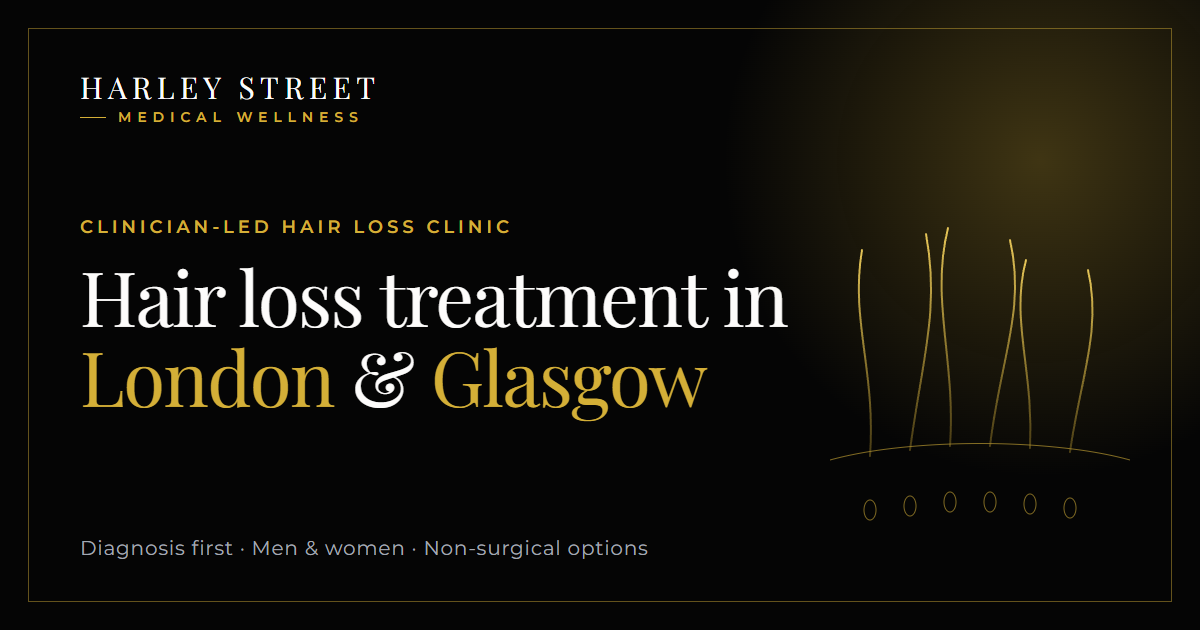
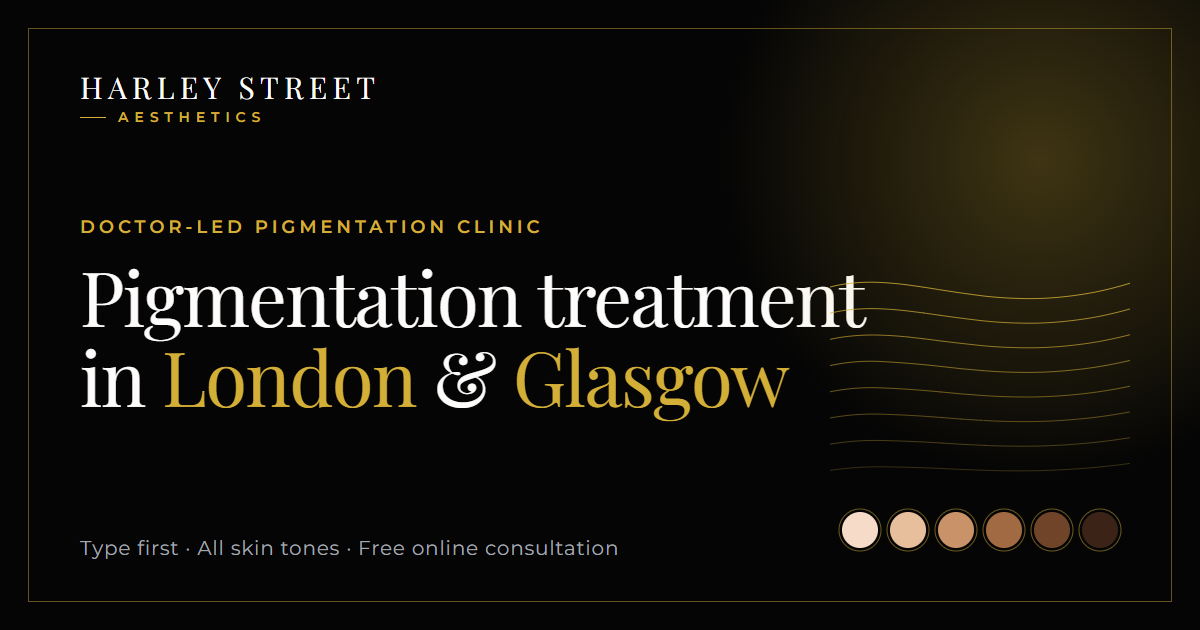
Phase 4-5: QA fixes, screenshots, review checklist and deployment guide

diff --git a/src/components/MobileMenu.tsx b/src/components/MobileMenu.tsx
@@ -1,4 +1,4 @@
-"use client";
+"use client";
 
 import Link from "next/link";
 import { usePathname } from "next/navigation";
@@ -54,7 +54,7 @@ export function MobileMenu() {
       <button
         ref={buttonRef}
         type="button"
-        className="inline-flex h-11 w-11 items-center justify-center rounded-full border border-white/20 min-[1400px]:hidden"
+        className="inline-flex h-11 w-11 items-center justify-center rounded-full border border-white/20 min-[1720px]:hidden"
         aria-expanded={open}
         aria-controls="mobile-menu"
         onClick={() => setOpen((o) => !o)}
@@ -64,7 +64,7 @@ export function MobileMenu() {
       </button>
       {/* Portalled to <body>: the header's backdrop-filter would otherwise trap this fixed panel inside the header box. */}
       {open && createPortal(
-        <div id="mobile-menu" className="fixed inset-x-0 top-[4.5rem] bottom-0 lg:top-[6.75rem] z-50 overflow-y-auto border-t border-white/10 bg-ink min-[1400px]:hidden">
+        <div id="mobile-menu" className="fixed inset-x-0 top-[4.5rem] bottom-0 lg:top-[6.75rem] z-50 overflow-y-auto border-t border-white/10 bg-ink min-[1720px]:hidden">
           <nav aria-label="Mobile" className="container-x py-6">
             <LocationSwitcher className="md:hidden" />
             <ul className="mt-6 divide-y divide-white/10">

diff --git a/src/app/treatments/[slug]/page.tsx b/src/app/treatments/[slug]/page.tsx
@@ -60,7 +60,7 @@ export default async function TreatmentPage({ params }: PageProps<"/treatments/[
       <Section labelledBy="what-title">
         <div className="grid items-center gap-12 lg:grid-cols-12 lg:gap-16">
           <div className="lg:col-span-7">
-            <SectionHeading id="what-title" eyebrow="How it works" title={<>About {t.shortName === "IPL" || t.shortName === "VI Peel" ? t.shortName : t.name.charAt(0).toLowerCase() + t.name.slice(1)}</>} />
+            <SectionHeading id="what-title" eyebrow="How it works" title={t.name} />
             <div className="space-y-5 text-lg leading-relaxed text-stone">
               {[...t.intro, ...t.howItWorks].map((p) => (
                 <p key={p}>{p}</p>
@@ -162,7 +162,7 @@ export default async function TreatmentPage({ params }: PageProps<"/treatments/[
         <Disclaimer className="mt-6" />
       </Section>
 
-      <CtaBand title={`Is ${t.shortName === "IPL" || t.shortName === "VI Peel" ? t.shortName : t.shortName.toLowerCase()} right for you?`} />
+      <CtaBand title="Is this treatment right for you?" />
     </>
   );
 }

diff --git a/src/app/page.tsx b/src/app/page.tsx
@@ -27,7 +27,7 @@ export default function Home() {
 
       <section className="relative overflow-hidden bg-black-rich text-white" aria-labelledby="hero-title">
         <div aria-hidden="true" className="absolute inset-y-0 right-0 hidden w-1/2 opacity-80 lg:block">
-          <SkinToneArt className="h-full w-full" />
+          <SkinToneArt className="h-full w-full" swatches={false} />
         </div>
         <div aria-hidden="true" className="absolute inset-0 bg-gradient-to-r from-black-rich via-black-rich/90 to-black-rich/10" />
         <div className="container-x relative pt-16 pb-14 sm:pt-24 lg:pt-32">

diff --git a/src/components/Header.tsx b/src/components/Header.tsx
@@ -1,4 +1,4 @@
-import Link from "next/link";
+import Link from "next/link";
 import { BRAND } from "@/lib/site";
 import { HeaderPhone, LocationSwitcher } from "./location";
 import { MobileMenu, NavLinks } from "./MobileMenu";
@@ -29,7 +29,7 @@ export function Header() {
         <a href={BRAND.mainSite} className="shrink-0">
           <Wordmark />
         </a>
-        <nav aria-label="Main" className="hidden min-[1400px]:block">
+        <nav aria-label="Main" className="hidden min-[1720px]:block">
           <NavLinks />
         </nav>
         <div className="flex items-center gap-3">

diff --git a/src/app/conditions/[slug]/page.tsx b/src/app/conditions/[slug]/page.tsx
@@ -58,7 +58,7 @@ export default async function ConditionPage({ params }: PageProps<"/conditions/[
       <Section labelledBy="about-title">
         <div className="grid gap-12 lg:grid-cols-12">
           <div className="lg:col-span-7">
-            <SectionHeading id="about-title" eyebrow="Overview" title={<>About {c.shortName.toLowerCase()}</>} />
+            <SectionHeading id="about-title" eyebrow="Overview" title={<>About {c.shortName}</>} />
             <div className="space-y-5 text-lg leading-relaxed text-stone">
               {c.intro.map((p) => (
                 <p key={p}>{p}</p>

diff --git a/docs/review-checklist.md b/docs/review-checklist.md
@@ -1,0 +1,65 @@
+# Review checklist
+
+Everything here needs a human check before launch. Run `npm run check` to rebuild and re-run the automated checks, and `npm run check:tbc` to list the placeholders still on the site.
+
+## Start here: decisions only you can make
+1. **Subdomain.** `pigmentation.harleystreetaesthetic.co.uk` is already the AI analysis app. Pick the site's subdomain (placeholder `pigmentation-treatment.`).
+2. **Signature treatment.** The main website says a needle-free colostrum programme at £349 a session; the Copilot says VirtueRF + Helios III laser + mesotherapy from £399. The site follows the website. Confirm which is right, and update the other source too.
+3. **Footer cross-links** to the Endolift and hair loss sites: yes or no.
+4. **301 redirects** from the 19 Medics URLs listed in `docs/deployment.md`.
+
+## 1. QA results (6 November 2026)
+
+| Check | Result |
+|---|---|
+| lint / typecheck / build | 0 errors; 44 static routes |
+| check:links | All internal links resolve; phones tel:+442046283165, tel:+441414888985 |
+| check:compliance | Pass |
+| Horizontal overflow | None on 20 pages at 360-1920 px (header nav moved to 1720 px) |
+| Browser tests (scripts/qa-functional.cjs) | 19/19 pass |
+| Screenshots | docs/screens/<page>-{mobile,tablet,desktop}.jpg for 20 pages, plus ref-hsa-* references |
+| Lighthouse | **Not finished**: run was in progress when work stopped. Re-run before launch. |
+
+## 2. Compliance review (ASA/CAP, POM rules, skin cancer, skin of colour): please confirm
+
+Automated scan (`npm run check:compliance`, passes) plus a manual read of every page.
+
+**Prescription-only medicines**
+1. No POM is named anywhere: no hydroquinone, tretinoin, triple-combination creams, isotretinoin, tranexamic acid or glutathione. The scan blocks these names. Wording used: "Prescription treatments may be discussed at your consultation if clinically appropriate." It appears on the home page, every treatment page, most condition pages, the treatments index, the darker-skin page and the prevention page.
+2. **Borderline:** contraindication lists say "certain acne medicines taken in the last six months" instead of naming isotretinoin, which the main website names. Confirm this is clear enough clinically.
+3. **Borderline:** the drug-induced pigmentation page names medicine *classes* ("some antibiotics, antimalarials, heart medicines and chemotherapy") as possible causes. It doesn't name or promote any product. Confirm you're comfortable.
+4. **Borderline:** the Copilot's Signature protocol uses tranexamic acid in injected mesotherapy, and its home skincare list includes tranexamic acid. Neither is mentioned on the site. If you switch the Signature page to the Copilot version, keep tranexamic acid out of the copy.
+5. **Borderline:** the Virtue RF page mentions an "option with exosomes" with "evidence … is still developing". Exosome products are not licensed medicines in the UK. Confirm the product and wording.
+6. The prevention page names cosmetic ingredients (vitamin C, niacinamide) as examples of brightening skincare. These are cosmetic, not prescription. Alpha arbutin is left out.
+
+**ASA/CAP**
+7. No guarantees, "permanent", "gone for good", "removes all pigmentation", superlatives, comfort claims ("pain-free"), time pressure, discounts or unsourced statistics. The scan checks all of these. Prices are shown as guide prices.
+8. Melasma is described as long-term and likely to return on the melasma, hormonal, results, Signature and Cosmelan pages and in the FAQs. Freckles are described as returning each summer.
+9. **Copilot never-say rules applied:** no "lighten / whiten / bleach" (aim phrased as "a more even-looking complexion at your natural skin tone"), no "not a laser", no 10 Harley Street, no "free doctor appointment". The scan blocks these.
+10. **Borderline:** the Copilot says not to *call a patient's* pigmentation melasma unless their report names it. The site has an educational melasma page and uses the word in treatment descriptions (e.g. "part of a management plan for melasma"), but never tells a reader they have it, and the quiz says "pages to read", not "you have". Confirm this is acceptable.
+11. **"Doctor-led"** is used for the clinic and treatment planning (as the Copilot and main site describe the protocol). Consultations are described as "with our medical team". Confirm every pigmentation plan is overseen by a doctor; otherwise switch to "clinician-led".
+12. No under-18 targeting. Every treatment page lists "Anyone under 18" as unsuitable, and the disclaimer, footer and form say 18+.
+13. No reviews or before/after photos are shown. The sections explain why. The results page promises consent, no retouching, consistent lighting and a range of skin tones: confirm the clinic can meet that before adding photos.
+
+**Skin cancer safety**
+14. The notice ("Any new, changing, irregular, bleeding or itchy dark spot or mole must be checked by a doctor before any cosmetic treatment. We look for this at every consultation…") is on every condition page (top of page), every treatment page, the quiz page and result, the darker-skin page, home, conditions, treatments, diagnosis, prevention, FAQ and location pages. The scan fails if it's missing from any condition, treatment, quiz or darker-skin page.
+15. The quiz's red-flag answers (new/changing, raised/irregular, bleeding/itchy) show "Please see a doctor first" and remove all treatment suggestions.
+
+**Skin of colour**
+16. Every condition and treatment page has a skin-of-colour note linking to `/pigmentation-in-darker-skin/`. IPL is stated as unsuitable for Fitzpatrick V–VI and tanned skin (Copilot and main site). The quiz removes IPL for medium/darker skin or a tan.
+17. **Check:** treatment-specific skin-tone wording is general except for IPL. Cosmelan ("can be considered for medium and darker skin, subject to assessment") follows the main website; the Copilot says this isn't documented. Virtue RF ("can be considered for a range of skin tones") is softer than the main site's "all skin tones (Fitzpatrick I–VI)", which the Copilot doesn't support. Please have a clinician confirm each one.
+
+**Clinical content**
+18. **A clinician should read every condition and treatment page** (`src/lib/conditions.ts`, `src/lib/treatments.ts`). Facts, prices, sessions, downtime and most risks come from the main website or the Copilot. General content (condition descriptions, some "may not suit" items such as the Virtue RF pacemaker line, risks for peel + mesotherapy, carbon laser, Q-switched laser, dark circles and CO2) is standard medical information, not the clinic's own protocol.
+19. Body, hands/chest, lip, café-au-lait, drug/heat-induced and white-patch pages are assess-and-advise or referral pages, because no playbook documents treating them. Confirm the referral wording and fill the `[TBC]`s.
+20. **Health data:** the enquiry form's "main concern" dropdown is health-related. The form tells people not to send detailed medical information, and the privacy policy says explicit consent is the basis. Confirm with your DPO.
+21. Privacy policy company details (Harley Street Medics Ltd, 211B Main Street, Bellshill ML4 1AJ, ICO ZB819731) come from the Endolift privacy policy. Confirm they're current.
+
+## 3. Main-website issues spotted (not on this site)
+- The main site and the AI app still show 10 Harley Street.
+- Main-site treatment pages name isotretinoin; the Virtue RF page says "Zero Pain" and "Suitable for all skin tones (Fitzpatrick I–VI)".
+- The main-site reviews block ("2 days ago", "Dr. Vincent") can't be verified.
+
+## 4. Every `[TBC]` placeholder on the site
+
+Run `npm run check:tbc -- --md` for the live list (23 unique placeholders on 6 Nov). Each is also covered in docs/open-questions.md.

diff --git a/docs/deployment.md b/docs/deployment.md
@@ -1,0 +1,89 @@
+# Deployment
+
+> **Nothing has been deployed and no DNS has been changed.** Do these steps only after you approve the site and confirm the final subdomain.
+
+The steps follow the hair loss project's `docs/deployment.md` (the Endolift source folder, with its own guide, isn't on this PC). The pattern is the same: a static export served from a host, plus one CNAME record for the subdomain.
+
+## DNS facts (looked up read-only, 6 Nov 2026)
+- `harleystreetaesthetic.co.uk` nameservers: `dns1.registrar-servers.com` and `dns2.registrar-servers.com`, i.e. **Namecheap** DNS. The root points to `178.62.106.101`. Records are edited in Namecheap → Domain List → `harleystreetaesthetic.co.uk` → Manage → **Advanced DNS**.
+- ⚠ **`pigmentation.harleystreetaesthetic.co.uk` already exists.** It is a CNAME to Vercel (`…vercel-dns-016.com`) and serves the free AI pigmentation analysis app. **Don't change or delete that record** unless you decide to move the app.
+- The site is configured for **`pigmentation-treatment.harleystreetaesthetic.co.uk`** as a placeholder (`NEXT_PUBLIC_SITE_URL` in `netlify.toml`). Replace it everywhere below with the subdomain you choose. That subdomain doesn't exist yet.
+
+## Option A: Netlify (recommended)
+
+1. **Repository.** The project is a local git repo (`main`). Create an empty GitHub repo (e.g. under `harleystreetmedics`, as for the hair loss site), then:
+   ```bash
+   git remote add origin https://github.com/harleystreetmedics/<repo-name>.git
+   ```
+   ```bash
+   git push -u origin main
+   ```
+2. **Create the site.** Netlify → Add new site → Import an existing project → GitHub → pick the repo. Build settings come from `netlify.toml` (`npm run build`, publish `out`, Node 22).
+3. **Environment variables** (Site configuration → Environment variables):
+   - `NEXT_PUBLIC_SITE_URL` = `https://<your-subdomain>.harleystreetaesthetic.co.uk` (also update `netlify.toml`)
+   - `NEXT_PUBLIC_ALLOW_INDEXING` = `false` until launch, then `true` and redeploy
+   - `NEXT_PUBLIC_GTM_ID` / `NEXT_PUBLIC_GA4_ID` / `NEXT_PUBLIC_META_PIXEL_ID` when confirmed (they only load after cookie consent)
+4. **Forms.** Site configuration → Forms → enable form detection. The hidden `public/__forms.html` registers the `pigmentation-enquiry` form. Add an email notification (Forms → Form notifications) to the address that should receive enquiries. TODO: switch to the CRM/webhook once you confirm the destination (open question 18).
+5. **Deploy.** Netlify builds automatically. Check the `*.netlify.app` URL, submit a test enquiry and confirm it arrives.
+6. **Custom domain.** Domain management → Add a domain → `<your-subdomain>.harleystreetaesthetic.co.uk` → "Add domain" (external DNS). Netlify shows the target: your site's `<site-name>.netlify.app`.
+7. **DNS record at Namecheap** (Advanced DNS → Add new record):
+
+   | Type | Host | Value | TTL |
+   |---|---|---|---|
+   | CNAME Record | `pigmentation-treatment` (your chosen host) | `<site-name>.netlify.app.` | Automatic |
+
+   Only add this one record. Don't change the root domain, `www`, the existing `pigmentation` or `link` records, or any MX/TXT records.
+8. **SSL/HTTPS.** Netlify provisions a Let's Encrypt certificate once DNS resolves (usually minutes, up to 24 h). Domain management → HTTPS → "Verify DNS configuration", then "Provision certificate" if it hasn't started. Turn on "Force HTTPS".
+9. **Confirm:**
+   ```bash
+   nslookup pigmentation-treatment.harleystreetaesthetic.co.uk
+   ```
+   ```bash
+   curl -I https://pigmentation-treatment.harleystreetaesthetic.co.uk/
+   ```
+   Expect the CNAME to point at the Netlify site, `HTTP/2 200`, and a padlock in the browser with a certificate for the subdomain. Check `/robots.txt` says `Disallow: /` until launch.
+10. **Launch.** Set `NEXT_PUBLIC_ALLOW_INDEXING=true`, redeploy, check `robots.txt` now allows crawling, then submit `/sitemap.xml` in Google Search Console (add the subdomain as a property, verified by DNS TXT record).
+
+## Option B: Vercel
+The AI analysis app is already on Vercel, so you may prefer to keep both there.
+1. Import the repo at vercel.com/new. `vercel.json` sets `npm run build` and output `out`. Framework preset: "Other".
+2. Add the same environment variables.
+3. Forms: Netlify Forms won't work on Vercel. Connect the form to your CRM/webhook first, or use Option A.
+4. Domains → add the subdomain. Vercel shows a CNAME target (`cname.vercel-dns.com`). Add at Namecheap: CNAME, host `<your host>`, value `cname.vercel-dns.com.`
+5. SSL is automatic. Confirm with the same `nslookup` / `curl -I` checks.
+
+## Local preview
+```bash
+npm install
+```
+```bash
+npm run dev
+```
+Then open http://localhost:3000. For the production build: `npm run build`, then `npx serve out`.
+
+## 301 redirect candidates (old Harley Street Medics pigmentation pages) — your decision
+Found in the harleystreetmedics.clinic sitemap (read-only, 6 Nov 2026). These pages describe pigmentation under the old brand. Suggested targets if you decide to redirect them; set them up on the Medics WordPress site (e.g. the Redirection plugin), not on this site. The Medics site recently had injected casino spam, so review it before editing, and check Google Ads and social links that point at these URLs.
+
+| Old URL | Suggested new URL |
+|---|---|
+| https://harleystreetmedics.clinic/pigmentation-london/ | /london/ |
+| https://harleystreetmedics.clinic/pigmentation-treatment-london/ | /london/ |
+| https://harleystreetmedics.clinic/pigmentation-glasgow/ | /glasgow/ |
+| https://harleystreetmedics.clinic/pigmentation-glasgow-2/ | /glasgow/ |
+| https://harleystreetmedics.clinic/pigmentation-treatment-glasgow/ | /glasgow/ |
+| https://harleystreetmedics.clinic/pigmentation-0/ | / |
+| https://harleystreetmedics.clinic/pigmentation1/ | / |
+| https://harleystreetmedics.clinic/patient-journey-pigmentation/ | /diagnosis/ |
+| https://harleystreetmedics.clinic/how-long-does-pigmentation-take-to-fade-a-realistic-guide/ | /results/ |
+| https://harleystreetmedics.clinic/pigmentation-glasgow-thank-you/ | /book/ |
+| https://harleystreetmedics.clinic/vi-peel-london/ | /treatments/vi-peel/ |
+| https://harleystreetmedics.clinic/vi-peel-london-thank-you/ | /book/ |
+| https://harleystreetmedics.clinic/dark-circles-glasgow/ | /conditions/dark-circles/ |
+| https://harleystreetmedics.clinic/dark-circles-g/ | /conditions/dark-circles/ |
+| https://harleystreetmedics.clinic/dark-circles-glasgow-thank-you/ | /book/ |
+| https://harleystreetmedics.clinic/patient-journey-dark-circles/ | /conditions/dark-circles/ |
+| https://harleystreetmedics.clinic/ingredients-reduce-dark-circles-under-eyes/ | /conditions/dark-circles/ |
+| https://harleystreetmedics.clinic/acne-scar-removal-london/ | /conditions/post-inflammatory-hyperpigmentation/ (or the main HSA site's acne scar page, if better) |
+| https://harleystreetmedics.clinic/acne-scar-removal-london-thank-you/ | /book/ |
+
+All new URLs are relative to your chosen subdomain. Dark circles and acne scars are partly non-pigment concerns, so redirecting them to the main HSA site may suit better; your call.

diff --git a/README.md b/README.md
@@ -1,6 +1,6 @@
-# Hair Loss Clinic — Harley Street Medical Wellness
+# Pigmentation Clinic — Harley Street Aesthetics
 
-Static Next.js site for hair loss assessment and treatment at Harley Street Medical Wellness (London and Glasgow). Built on the Endolift site's stack and components; the Wellness brand uses the same black, gold, Playfair and Montserrat design.
+Static Next.js site for pigmentation assessment and treatment at Harley Street Aesthetics (London and Glasgow). A sibling of the Endolift and hair loss sites: same stack, black/gold design, Playfair + Montserrat, components and QA scripts.
 
 ## Run locally
 ```bash
@@ -15,15 +15,18 @@ Open http://localhost:3000.
 | `npm run build` | Static export to `out/` (then flattens route payloads, see `scripts/flatten-segments.mjs`) |
 | `npm run lint` / `npm run typecheck` | ESLint / TypeScript |
 | `npm run check:links` | Checks every internal link in `out/` |
-| `npm run check:compliance` | Scans page text for POM names, guarantees, superlatives, time pressure, unsourced stats |
+| `npm run check:compliance` | Scans page text for POM names, guarantees, Copilot "never say" words, superlatives, time pressure, unsourced stats, and checks the skin cancer notice is on every condition/treatment page |
 | `npm run check:tbc` | Lists every `[TBC: …]` placeholder still on the site |
 | `npm run check` | All of the above |
+| `node scripts/qa-functional.cjs` | Browser tests (serve `out/` on port 4173 first: `npx serve out -l 4173`) |
+| `node scripts/qa-screenshots.cjs docs/screens <name> <url> …` | Screenshots at mobile/tablet/desktop |
 
 ## Where things live
-- Content: `src/lib/conditions.ts`, `src/lib/treatments.ts`, `src/lib/faqs.ts`
-- Brand, clinics, nav, tracking env vars: `src/lib/site.ts`
+- Content: `src/lib/conditions.ts` (14 concerns), `src/lib/treatments.ts` (11 treatments), `src/lib/faqs.ts`, `src/lib/reviews.ts` (empty until verified)
+- Brand, clinics, team, consultation prices, nav, tracking env vars: `src/lib/site.ts`
+- Enquiry form: `src/components/EnquiryForm.tsx`, `src/lib/form.ts`, `public/__forms.html` (Netlify Forms)
 - SEO and JSON-LD: `src/lib/seo.ts`, `src/lib/schema.ts`, `src/app/sitemap.ts`, `src/app/robots.ts`
 - Docs: `docs/research.md`, `docs/open-questions.md`, `docs/decisions.md`, `docs/plan.md`, `docs/review-checklist.md`, `docs/deployment.md`
 
 ## Environment variables
-`NEXT_PUBLIC_SITE_URL`, `NEXT_PUBLIC_ALLOW_INDEXING` (keep `false` until launch), `NEXT_PUBLIC_GTM_ID`, `NEXT_PUBLIC_GA4_ID`, `NEXT_PUBLIC_META_PIXEL_ID`.
+`NEXT_PUBLIC_SITE_URL` (placeholder `https://pigmentation-treatment.harleystreetaesthetic.co.uk`), `NEXT_PUBLIC_ALLOW_INDEXING` (keep `false` until launch), `NEXT_PUBLIC_GTM_ID`, `NEXT_PUBLIC_GA4_ID`, `NEXT_PUBLIC_META_PIXEL_ID`.

diff --git a/docs/decisions.md b/docs/decisions.md
@@ -25,3 +25,5 @@
 | 21 | 2026-11-06 | Netlify is the primary host, Vercel the alternative. | Brief. Note: the AI app on the `pigmentation.` subdomain is already on Vercel. |
 | 22 | 2026-11-06 | Medical team shown from the main site's team page (bios shortened, initials instead of photos). Dr Nina Ku is highlighted for pigmentation because her published bio lists pigmentation and skin cancer screening. Which doctors see pigmentation patients is `[TBC]`. No GMC numbers. | Main site [HSA]; brief says only show GMC numbers if Copilot confirms them. |
 | 23 | 2026-11-06 | The glutathione "skin brightening drip" (Wellness) is not mentioned. | Different brand; brightening/whitening claims and weak evidence. |
+| 24 | 2026-11-06 | Full desktop nav shows from 1720 px (burger menu below), up from 1400 px on the hair loss site. | The extra "Darker skin" nav item and the AI analysis link made the header overflow at 1440–1536 px. |
+| 25 | 2026-11-06 | Reviews carousel component kept but empty (`src/lib/reviews.ts`); it appears automatically when verified reviews are added. | Brief asks for a carousel; no verified pigmentation reviews exist yet. |

diff --git a/docs/plan.md b/docs/plan.md
@@ -77,7 +77,7 @@ Reused from the hair loss site: Header (utility bar, wordmark, nav, switcher, ph
 New: SkinCheckNotice (skin cancer warning), SkinToneNote (skin-of-colour note), SkinToneArt (abstract tone spectrum), AiAnalysisCard, ReviewsPlaceholder.
 
 ## Content outline
-- `src/lib/conditions.ts`: 15 conditions with intro, appearance, causes/triggers, assessment, treatments, options, prevention, referral notes, FAQs, related.
+- `src/lib/conditions.ts`: 14 conditions with intro, appearance, causes/triggers, assessment, treatments, options, prevention, referral notes, FAQs, related.
 - `src/lib/treatments.ts`: 11 treatments with facts, how it works, concerns, suitability, skin-tone note, on the day, aftercare, risks, FAQs, prices.
 - `src/lib/faqs.ts`: general FAQs from Copilot themes.
 - Compliance wording rules: see decisions #9–#13.
